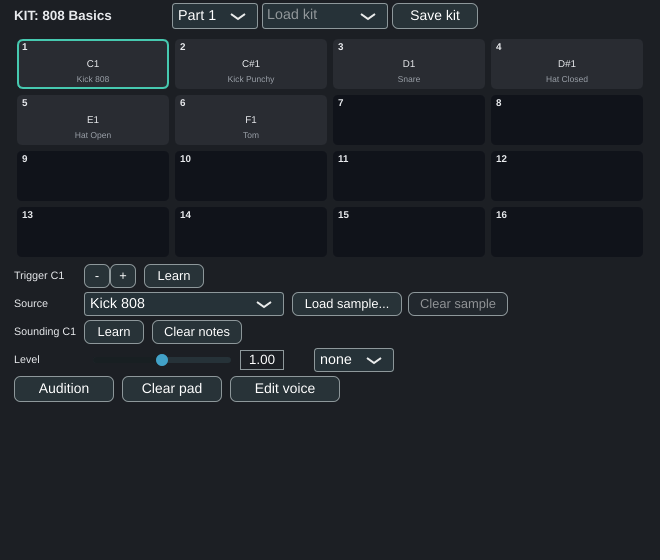
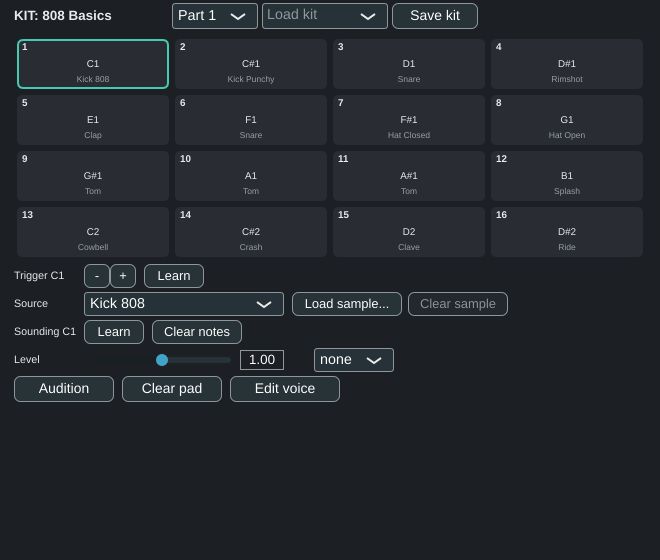
Factory content Inc 1: complete the 808 Basics kit (16 pads)
808 Basics fills all 16 pads (triggers 36-51, the Launchkey grid); no crash/splash gaps.

Final pad map (pad = trigger - 36):
  36 Kick 808   37 Kick Punchy  38 Snare       39 Rimshot
  40 Clap       41 Snare(x2)    42 Hat Closed  43 Hat Open
  44 Low Tom    45 Mid Tom      46 High Tom    47 Splash
  48 Cowbell    49 Crash        50 Clave       51 Ride

- 7 new synthesized drum presets: Clap (BP noise + reverb body), Rimshot + Clave (fast
  pitched clicks), Cowbell (two metallic squares, BP), Splash/Crash/Ride (detuned square
  stack + noise through a bright HP/BP; splash ~0.5 s, crash ~4 s, ride ~0.85 s bell-ish).
- Snare 2 + the three toms are the existing Snare/Tom presets RE-TUNED via the pad's
  sound-note (no extra presets) — a new `tuned()` kit helper.
- Choke: the two hats share group 1; cymbals ring free (group 0) over the groove.
- Seq default 8 rows now spread the kit: kick·snare·clap·closed-hat·open-hat·low-tom·
  crash·cowbell (notes 36·38·40·42·43·44·49·48), both Config + processor literals.
- Tests: Crash rings long / Splash short (cymbal decay); a dense 16th mash INCLUDING the
  crash stays finite + bounded under the voice budget (torture). Updated 3 tests that
  hardcoded the old default seq/kit mapping. docs/presets.md pad table + CHANGELOG.

Release 516 (pluginval flake #103 retried green) + --sanitize (ASan/UBSan) green.

Changed region(s): [[0.0, 0.1214, 1.0, 0.4857]]

diff --git a/tests/plugin/test_drums.cpp b/tests/plugin/test_drums.cpp
@@ -100,3 +100,52 @@ TEST_CASE ("Closed hat preset: highpassed noise, very short", "[plugin][7a][drum
     // Very short: essentially silent by 120 ms.
     REQUIRE (rmsRange (out, 48000, 0.0, 0.03) > rmsRange (out, 48000, 0.12, 0.3) * 15.0);
 }
+
+// --- 808 kit completion (Inc 1): the new cymbals + the dense-mash torture -----------------
+TEST_CASE ("Crash rings long, Splash is short (cymbal decay)", "[plugin][drums][808][cymbal]")
+{
+    juce::ScopedJuceInitialiser_GUI juceInit;
+    VASynthProcessor p; p.prepareToPlay (48000.0, 256);
+
+    auto crash  = renderPreset (p, "Crash",  57, 3.5);
+    auto splash = renderPreset (p, "Splash", 57, 3.5);
+    REQUIRE (tu::allFinite (crash));
+    REQUIRE (tu::allFinite (splash));
+
+    // Crash still ringing around 1 s; splash essentially gone by then.
+    REQUIRE (rmsRange (crash,  48000, 0.9, 1.2) > 0.005);                 // long tail
+    REQUIRE (rmsRange (splash, 48000, 0.9, 1.2) < rmsRange (crash, 48000, 0.9, 1.2) * 0.3);
+    REQUIRE (rmsRange (splash, 48000, 0.0, 0.1) > 0.02);                  // but splash is audible up front
+}
+
+TEST_CASE ("808 kit: a dense 16th mash including the crash stays clean + bounded", "[plugin][drums][808][torture]")
+{
+    juce::ScopedJuceInitialiser_GUI juceInit;
+    VASynthProcessor p;
+    p.prepareToPlay (48000.0, 128);          // default scene: P4 = 808 kit, seq target P4
+
+    auto set = [&] (const char* id, float v) { auto* pp = p.apvts.getParameter (id); pp->setValueNotifyingHost (pp->convertTo0to1 (v)); };
+    set (ParamID::tempo, 180.0f);            // fast
+    for (int row = 0; row < 8; ++row)        // FULL grid: every default drum (incl. crash row) on every 16th
+        for (int step = 0; step < 16; ++step) p.setSeqCell (row, step, 1);
+    set (ParamID::seqOn, 1.0f);
+
+    float peak = 0.0f; bool finite = true;
+    for (int b = 0; b < 700; ++b)            // ~4 bars @ 180 BPM, 128-sample blocks
+    {
+        juce::AudioBuffer<float> buf (2, 128); buf.clear();
+        juce::MidiBuffer m;
+        p.processBlock (buf, m);
+        for (int ch = 0; ch < 2; ++ch)
+            for (int i = 0; i < 128; ++i)
+            {
+                const float s = buf.getSample (ch, i);
+                if (! std::isfinite (s)) finite = false;
+                peak = std::max (peak, std::abs (s));
+            }
+    }
+    INFO ("mash peak=" << peak);
+    REQUIRE (finite);                        // no NaN/Inf under a dense mash + a long ringing crash
+    REQUIRE (peak > 0.05f);                  // it's actually sounding
+    REQUIRE (peak <= 1.05f);                 // the safety clipper keeps it bounded — no runaway
+}

diff --git a/Source/PluginProcessor.cpp b/Source/PluginProcessor.cpp
@@ -1162,15 +1162,31 @@ VASynthProcessor::KitDefinition VASynthProcessor::factoryKit (const juce::String
     KitDefinition def; def.name = name;
     auto drum = [] (int trig, const char* src, int choke)
     { return KitPadDef { trig, src, { trig, 0, 0, 0 }, 1, 1.0f, choke }; };
+    // A drum whose SOUND note differs from its trigger — re-tunes a shared preset (toms, snare 2)
+    // across pads without a new preset (the pad plays `src` at `sound`, triggered by `trig`).
+    auto tuned = [] (int trig, const char* src, int choke, int sound)
+    { return KitPadDef { trig, src, { sound, 0, 0, 0 }, 1, 1.0f, choke }; };
 
     if (name == "808 Basics")
     {
-        def.pads[0] = drum (36, "Kick 808",   0);
-        def.pads[1] = drum (37, "Kick Punchy", 0);
-        def.pads[2] = drum (38, "Snare",      0);
-        def.pads[3] = drum (39, "Hat Closed", 1);            // hats mutually choke
-        def.pads[4] = drum (40, "Hat Open",   1);
-        def.pads[5] = drum (41, "Tom",        0);
+        // Full 16-pad 808 kit, triggers 36..51 (the Launchkey pad surface). Hats mutually choke
+        // (group 1); cymbals (crash/splash/ride) ring FREE (group 0) so they wash over the groove.
+        def.pads[0]  = drum  (36, "Kick 808",    0);
+        def.pads[1]  = drum  (37, "Kick Punchy", 0);
+        def.pads[2]  = drum  (38, "Snare",       0);
+        def.pads[3]  = drum  (39, "Rimshot",     0);
+        def.pads[4]  = drum  (40, "Clap",        0);
+        def.pads[5]  = tuned (41, "Snare",       0, 48);     // Snare 2 — the snare tuned up (tighter)
+        def.pads[6]  = drum  (42, "Hat Closed",  1);
+        def.pads[7]  = drum  (43, "Hat Open",    1);
+        def.pads[8]  = tuned (44, "Tom",         0, 40);     // Low Tom  (the Tom preset re-tuned x3)
+        def.pads[9]  = tuned (45, "Tom",         0, 46);     // Mid Tom
+        def.pads[10] = tuned (46, "Tom",         0, 52);     // High Tom
+        def.pads[11] = drum  (47, "Splash",      0);
+        def.pads[12] = drum  (48, "Cowbell",     0);
+        def.pads[13] = drum  (49, "Crash",       0);
+        def.pads[14] = drum  (50, "Clave",       0);
+        def.pads[15] = drum  (51, "Ride",        0);
     }
     else if (name == "Stab Board")
     {

diff --git a/tests/dsp/test_stepseq.cpp b/tests/dsp/test_stepseq.cpp
@@ -52,23 +52,23 @@ TEST_CASE ("stepseq fires a row's note on its on-steps", "[dsp][stepseq]")
 TEST_CASE ("stepseq layers independent rows", "[dsp][stepseq]")
 {
     StepSequencer s; auto c = baseCfg();
-    c.cells[0][0] = StepSequencer::On;             // kick on step 0
-    c.cells[2][0] = StepSequencer::On;             // snare row on step 0 too
+    c.cells[0][0] = StepSequencer::On;             // kick (row 0 = note 36) on step 0
+    c.cells[2][0] = StepSequencer::On;             // clap (row 2 = note 40) on step 0 too
     s.setConfig (c);
     auto e = run (s, 200, 200);
-    bool kick = false, snare = false;
-    for (auto& x : e) if (x.on) { if (x.note == 36) kick = true; if (x.note == 38) snare = true; }
-    REQUIRE (kick); REQUIRE (snare);
+    bool kick = false, clap = false;
+    for (auto& x : e) if (x.on) { if (x.note == 36) kick = true; if (x.note == 40) clap = true; }
+    REQUIRE (kick); REQUIRE (clap);
 }
 
 TEST_CASE ("stepseq mute silences a row", "[dsp][stepseq]")
 {
     StepSequencer s; auto c = baseCfg();
     c.cells[0][0] = StepSequencer::On; c.mute[0] = true;
-    c.cells[1][0] = StepSequencer::On;             // row 1 (note 37) still plays
+    c.cells[1][0] = StepSequencer::On;             // row 1 (note 38) still plays
     s.setConfig (c);
     auto e = run (s, 200, 200);
-    for (auto& x : e) if (x.on) REQUIRE (x.note == 37);
+    for (auto& x : e) if (x.on) REQUIRE (x.note == 38);
 }
 
 TEST_CASE ("stepseq accent raises velocity", "[dsp][stepseq]")

diff --git a/Source/PluginProcessor.h b/Source/PluginProcessor.h
@@ -807,7 +807,7 @@ private:
     // Step sequencer grid <-> "seq_cells" / "seq_notes" / "seq_mutes" state properties.
     std::array<std::array<unsigned char, kSeqSteps>, kSeqRows> seqCells { };
     std::array<std::array<unsigned char, kSeqSteps>, kSeqRows> seqVel { };   // per-step velocity % (0 = default 100)
-    std::array<int, kSeqRows>  seqNotes { { 36, 37, 38, 39, 40, 41, 42, 43 } };
+    std::array<int, kSeqRows>  seqNotes { { 36, 38, 40, 42, 43, 44, 49, 48 } };
     std::array<bool, kSeqRows> seqMutes { };
     void writeSeqProperty();
     void applySeqProperty();
@@ -1003,7 +1003,7 @@ private:
     {
         std::array<Looper::Lane, SynthEngine::maxParts> lanes {};              // per-lane MIDI loop clips
         std::array<std::array<unsigned char, kSeqSteps>, kSeqRows> cells {}, vel {};   // drum pattern
-        std::array<int, kSeqRows>  notes { { 36, 37, 38, 39, 40, 41, 42, 43 } };
+        std::array<int, kSeqRows>  notes { { 36, 38, 40, 42, 43, 44, 49, 48 } };
         std::array<bool, kSeqRows> mutes {};
         std::array<float, SynthEngine::maxParts> tBars {}, tMode {}, tPlay {}; // per-lane transport
         std::array<float, SynthEngine::maxParts> tQuant { { 1.0f, 1.0f, 1.0f, 1.0f } };

diff --git a/Source/DSP/StepSequencer.h b/Source/DSP/StepSequencer.h
@@ -32,7 +32,7 @@ public:
         // Per-step velocity PERCENT (task #54): 0 uses the default (100%); 10..200 sets it
         // explicitly (accent = >100). Emitted velocity = clamp(vel% / 100, 0..1).
         std::array<std::array<unsigned char, kSteps>, kRows> vel { };
-        std::array<int, kRows>  note { { 36, 37, 38, 39, 40, 41, 42, 43 } };   // 808 Basics 36..43
+        std::array<int, kRows>  note { { 36, 38, 40, 42, 43, 44, 49, 48 } };   // 808: kick snare clap CH OH loTom crash cowbell
         std::array<bool, kRows> mute { };
     };
 

diff --git a/tests/plugin/test_presets_factory.cpp b/tests/plugin/test_presets_factory.cpp
@@ -37,7 +37,7 @@ TEST_CASE ("factory library has the expected presets spanning the categories", "
     VASynthProcessor p;
     const auto& lib = p.factoryPresetLibrary();
 
-    REQUIRE (lib.size() == 25);        // 16 tonal + 6 drums (7A) + 2 wavetable (#95 3c) + 1 supersaw (#96)
+    REQUIRE (lib.size() == 32);        // 16 tonal + 6 drums (7A) + 2 wavetable (#95 3c) + 1 supersaw (#96) + 7 drums (808 kit)
     for (auto& fp : lib.all())
     {
         REQUIRE (fp.name.isNotEmpty());

diff --git a/tests/plugin/test_parts.cpp b/tests/plugin/test_parts.cpp
@@ -501,7 +501,7 @@ TEST_CASE ("kit: a kit part round-trips through MULTI", "[plugin][kitpart][multi
     dst.applyMultiState (multi);
     REQUIRE (dst.isPartKit (1));
     REQUIRE (dst.getPartKit (1).name == "808 Basics");
-    REQUIRE (dst.getPartKit (1).pads[3].chokeGroup == 1);         // hats choke survived
+    REQUIRE (dst.getPartKit (1).pads[6].chokeGroup == 1);         // hats (pad 6 = Hat Closed) choke survived
     REQUIRE (dst.surfaceHasSplit ("B2"));
 }
 

diff --git a/docs/presets.md b/docs/presets.md
@@ -29,7 +29,7 @@ pick the same one again.
 | Winds   | Soft Flute |
 | Organ   | Full Organ |
 | FX      | Noise Riser, Dark Drone |
-| Drums   | Kick 808, Kick Punchy, Snare, Hat Closed, Hat Open, Tom |
+| Drums   | Kick 808, Kick Punchy, Snare, Hat Closed, Hat Open, Tom, Clap, Rimshot, Clave, Cowbell, Splash, Crash, Ride |
 
 ### Drum recipes (7A)
 
@@ -107,9 +107,23 @@ Editor**. Per pad: set the trigger and sounding notes by **learn-by-play** (arm,
 press keys), pick the source preset, set level and choke group, and **Audition**. Kits
 save/load as their own presets (a **Kits** category) and are included in a **MULTI**.
 
-**Factory kits.** *808 Basics* — six drums on triggers 36–41 (Kick 808, Kick Punchy,
-Snare, Hat Closed, Hat Open, Tom), with the two hats in choke group 1. *Stab Board* —
+**Factory kits.** *808 Basics* — a full **16-pad** kit on triggers 36–51 (the Launchkey
+pad grid); the two hats choke each other (group 1), the cymbals ring free. *Stab Board* —
 four drums plus four tuned **minor-triad** chord pads (a plucky Synth Pluck at C/D/E/F).
+
+*808 Basics* pad map (pad = trigger − 36):
+
+| Trig | Pad | Trig | Pad | Trig | Pad | Trig | Pad |
+|------|-----|------|-----|------|-----|------|-----|
+| 36 | Kick 808 | 40 | Clap | 44 | Low Tom¹ | 48 | Cowbell |
+| 37 | Kick Punchy | 41 | Snare 2¹ | 45 | Mid Tom¹ | 49 | Crash² |
+| 38 | Snare | 42 | Hat Closed³ | 46 | High Tom¹ | 50 | Clave |
+| 39 | Rimshot | 43 | Hat Open³ | 47 | Splash² | 51 | Ride² |
+
+¹ the Snare / Tom preset re-tuned via the pad's sound-note (no extra preset). ² cymbals
+are **not** choked (group 0) so they wash over the groove. ³ the two hats share choke
+group 1. The step sequencer's 8 default rows map to kick · snare · clap · closed-hat ·
+open-hat · low-tom · crash · cowbell (trigger notes 36 · 38 · 40 · 42 · 43 · 44 · 49 · 48).
 
 **Kit seam note.** In this version every pad of a Kit part shares the part's one FX/LFO
 chain (per-part FX arrives with the full-multitimbral work); a "drums" split zone plays

diff --git a/CHANGELOG.md b/CHANGELOG.md
@@ -9,6 +9,12 @@ follow [Semantic Versioning](https://semver.org/spec/v2.0.0.html).
 Post-1.0 work on `master` (not yet tagged; the ThinkPad validation is the final pre-tag gate).
 
 ### Added
+- **808 Basics is now a full 16-pad kit.** The factory drum kit fills all 16 pads (triggers 36–51,
+  the Launchkey grid): the existing kick/snare/hats/tom plus **seven new synthesized drums** — Clap,
+  Rimshot, Clave, Cowbell, Splash, Crash, Ride — with three toms and a tuned second snare voiced from
+  the existing presets. Hats choke each other; the cymbals ring free over the groove. The step
+  sequencer's default 8 rows now spread across the expanded kit (kick·snare·clap·closed-hat·open-hat·
+  low-tom·crash·cowbell). Clean under a dense 16th-note mash with the crash ringing (torture-tested).
 - **Session export — a DAW-handoff bounce (one folder).** A **BOUNCE** button (by the loop exports)
   renders the whole session **offline** into a folder your DAW can open: a **WAV stem per part**
   (each part through its full chain — voices → FX → EQ → level/pan), the **master WAV**, a **MIDI
